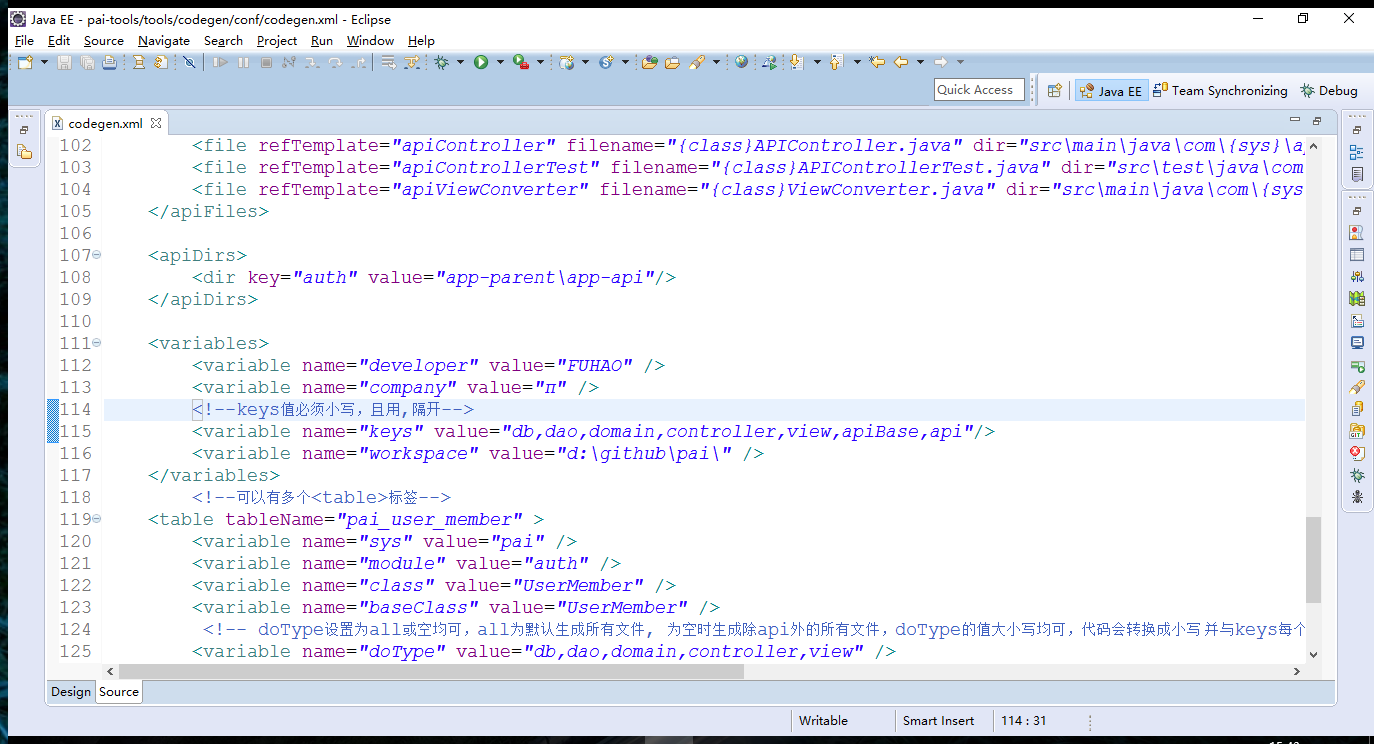
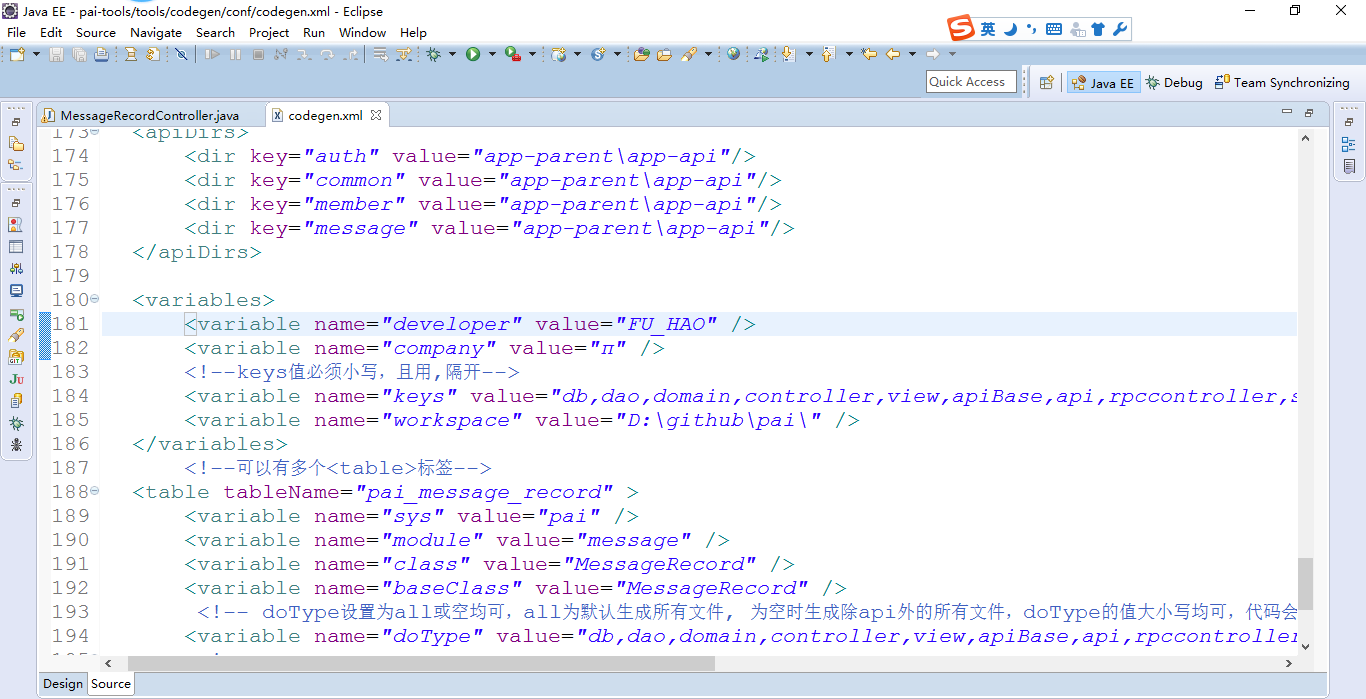
文档

Changed region(s): [[0.0, 0.0, 1.0, 1.0], [0.9839, 0.1803, 1.0, 0.691], [0.8609, 0.5408, 0.8917, 0.5708]]

diff --git a/TRANSACTION.md b/TRANSACTION.md
@@ -1,0 +1,35 @@
+#前期先更基于mq最终一致性解决方案，和最大通知数方案。后期将补上分布式事务TCC方案，TCC主要参考开源github项目https://github.com/changmingxie/tcc-transaction/tree/master-1.2.x
+
+1、基于mq最终一致性，主要适用场景为异步保存，并且不需要返回B模块数据
+
+![image](https://github.com/fuhaopai/pai/blob/master/doc/image/transaction/transaction.png)
+
+--假设要同时操作A模块和B模块的数据，为了确保两个服务之间的一致性，同时又保证事务减少对业务的耦合，这里把事务控制做成了一个通用消息组件
+
+--对于消息服务，主要包含四个方法saveMessageWaitingConfirm(Message)、confirmAndSendMessage(String)，还有两个定时任务处理handleWaitingConfirmTimeOutMessages()、handleSendingTimeOutMessage(),具体使用看上图。
+
+--massage实体消息类中主要包含
+URL回调地址: 用于确认A模块的本地事务是否执行成功（A模块在本地事务中会保存saveMessageWaitingConfirm方法返回的messageId记录，每个事务发起方都会创建一张消息表），如果不成功则在handleWaitingConfirmTimeOutMessages中删除消息
+messageBody: B模块的操作数据
+msgType: 限定JMS-Server使用的java类
+
+![image](https://github.com/fuhaopai/pai/blob/master/doc/image/transaction/message.png)
+
+--缺点
+不能满足时效性，可补偿性，有一些场景也不适用，比如：A模块执行本地事务，然后把数据给B模块调用，调用B模块后，A模块要用B模块返回数据继续后面的事务，这些带数据返回和有先后顺序的场景是不适用的。
+
+2、最大通知数，主要适用场景为调用第三方公司接口，比如第三方支付，引入的第三方合作公司的http接口
+
+![image](https://github.com/fuhaopai/pai/blob/master/doc/image/transaction/notify.png)
+
+3、TCC事务处理，自定义全局事务，自定义注解@Compensable，通过拦截器的配置控制confirmMethod和cancelMethod方法的执行，用于提交和事务补偿操作
+
+![image](https://github.com/fuhaopai/pai/blob/master/doc/image/transaction/transaction2.png)
+
+![image](https://github.com/fuhaopai/pai/blob/master/doc/image/transaction/transaction3.png)
+
+--缺点
+
+代码编写比较复杂，每一次提交都需要实现三个方法实现难度较大。
+
+

diff --git a/README.md b/README.md
@@ -1,4 +1,9 @@
-#系统主要使用spring,springmvc,mybatis等搭建，maven结构，项目原型图位置fork后找到doc/pai/index.html
+#系统实例主要使用spring,springmvc,mybatis等搭建，maven结构，使用dubbo和zookeeper提供分布式服务。
+[代码生成器](https://github.com/fuhaopai/pai/blob/master/CODEGEN.md)
+[文档生成器](https://github.com/fuhaopai/pai/blob/master/DOCGEN.md)
+[接口校验组件](https://github.com/fuhaopai/pai/blob/master/INTFCHECK.md)
+[分布式事务解决方案-最终一致性](https://github.com/fuhaopai/pai/blob/master/TRANSACTION.md)
+[分布式主键ID获取方案](https://github.com/fuhaopai/pai/blob/master/GETID.md)
 #项目模块分层图
 ![image](https://github.com/fuhaopai/pai/blob/master/doc/image/module.png)
 #系统结构设计图
@@ -52,9 +57,9 @@ public boolean lock(Jedis jedis, String key){
 
 #service-parent这部分是平时工作中的一些积累，融合到本系统中，按需选择依赖
 
--service-mq:目前集成active-mq
+-service-mq:异步消息
 
--service-redis:缓存
+-service-redis:缓存（因base-db使用，已移到base-core）
 
 -service-quartz:定时器
 
@@ -62,7 +67,7 @@ public boolean lock(Jedis jedis, String key){
 
 -service-getui:个推推送
 
--service-image:阿里云图片上传
+-service-image:图片上传
 
 -service-mail:邮件
 
@@ -75,17 +80,11 @@ public boolean lock(Jedis jedis, String key){
 
 -biz-member:会员模块
 
--biz-article:（待开发，具体的文章相关模块）
-
--biz-func:(待开发，原型图发现-具体的每一个功能应该都会抽出一个业务模块出来)
+-biz-A/B/C:（待开发）
 
 #app-parent应用层
 -app-web:提供基础的web层公共接口、抽象类和相关服务、支持（比如filter、context、Interceptor等）
 
 -app-admin:后台web项目
 
--app-api:（待开发，为web,wap,app提供RESTful规范的接口）
-
--app-front:(待开发，为web提供controller对接api)
-
--app-wap:(待开发，同上)
+-app-api:（待开发，为web,wap,app提供RESTful规范的接口,替换为dubbo rest）

diff --git a/DOCGEN.md b/DOCGEN.md
@@ -1,0 +1,26 @@
+#文档生成器详解
+
+-对于一个团队开发来说，文档都是必不可少的，比如团队之间进行对接，需要文档来表达自己的意图。但一般来说文档的编写却又是开发者最讨厌做的事，对于比较"懒"的开发来说，都希冀有一种有效的方法来减免这件事。
+
+-市场上有一些常用的文档生成器，比如swagger，和spring有较好融合，但是它一般是用于web controller层的api文档，对于现在流行的分布式框架来说，可能一个系统分出了不同的模块给不同的团队进行开发，此时各团队的协作就需要有效的文档来说明自己的服务接口。
+
+-本文档生成器主要利用了java的反射机制，提供rpc服务接口规范文档和rest风格接口规范文档，能独立运行，与系统本身无耦合。
+
+1、工具使用详解：
+
+-参数说明，在接口类属性上加上@AutoDocField注解，或者在接口方法内部加上@AutoDocParam注解。因为两处获取注解的方式不一样，所以用不同的注解做区分
+
+![image](https://github.com/fuhaopai/pai/blob/master/doc/image/doc/doc1.png)
+
+-方法说明，在接口方法上加上@AutoDocMethod进行注明
+
+![image](https://github.com/fuhaopai/pai/blob/master/doc/image/doc/doc2.png)
+
+2、效果展示：
+
+-执行文档生成
+
+![image](https://github.com/fuhaopai/pai/blob/master/doc/image/doc/doc5.png)
+
+![image](https://github.com/fuhaopai/pai/blob/master/doc/image/doc/doc4.png)
+

diff --git a/CODEGEN.md b/CODEGEN.md
@@ -36,7 +36,7 @@
 -原理同上，只是做的操作是文件删除。
 
 #效果展示
--在codegen.xml中填入要生成的表信息，代码所属模块，db,dao,domain,controller,view,api 6个层次指定哪几个会生成相应的代码
+-在codegen.xml中填入要生成的表信息，代码所属模块，db,dao,domain,controller,view,api,service,serviceImpl 6个层次指定哪几个会生成相应的代码
 
 ![image](https://github.com/fuhaopai/pai/blob/master/doc/image/codegen/3.png)
 
@@ -52,6 +52,10 @@
 
 ![image](https://github.com/fuhaopai/pai/blob/master/doc/image/codegen/2.png)
 
+-dubbo配置服务端和消费端
+
+![image](https://github.com/fuhaopai/pai/blob/master/doc/image/codegen/10.png)
+
 -界面展示效果，先登录
 
 ![image](https://github.com/fuhaopai/pai/blob/master/doc/image/codegen/4.png)
@@ -59,6 +63,7 @@
 -给刚生成的功能配置路劲
 
 ![image](https://github.com/fuhaopai/pai/blob/master/doc/image/codegen/5.png)
+![image](https://github.com/fuhaopai/pai/blob/master/doc/image/codegen/9.png)
 
 -查看效果
 

diff --git a/INTFCHECK.md b/INTFCHECK.md
@@ -1,0 +1,25 @@
+#ID校验组件
+
+-使用场景：在内部对接或者对外对接时，需要限定接口参数的类型，是否非空。
+
+-作为程序员很烦对每一个方法接口进行参数校验，既容易遗漏，代码也不美观。我们更需要的是关注业务，所以希望有一种通用的方式来统一处理校验，简单易用，同时又不希望多余的代码影响业务代码的阅读性。
+
+-我选择自定义注解的形式，支持可扩展，通过aop拦截接口参数来实现
+
+1、使用示例：
+
+-参数说明
+
+![image](https://github.com/fuhaopai/pai/blob/master/doc/image/check/check1.png)
+
+-aop cglib代理拦截
+
+![image](https://github.com/fuhaopai/pai/blob/master/doc/image/doc/doc3.png)
+
+2、效果展示：
+
+-拦截返回错误信息，注释其中某个属性
+
+![image](https://github.com/fuhaopai/pai/blob/master/doc/image/check/check2.png)
+
+
